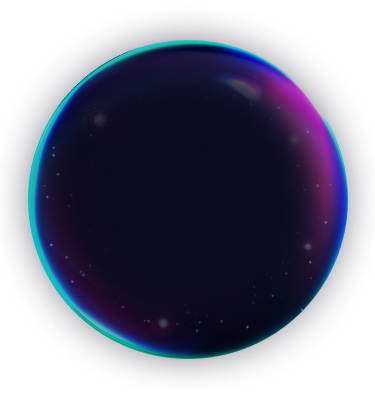
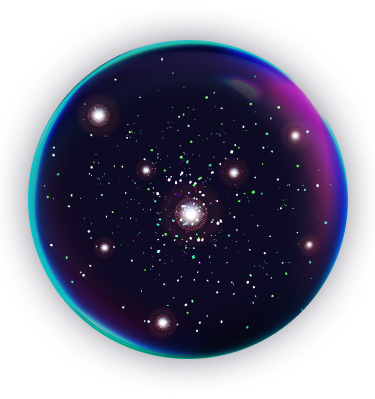
work version

diff --git a/lib/screen/magic_ball_screen.dart b/lib/screen/magic_ball_screen.dart
@@ -1,4 +1,7 @@
 import 'package:flutter/material.dart';
+import 'package:flutter_bloc/flutter_bloc.dart';
+
+import '../bloc/bloc/magic_ball_bloc.dart';
 
 class MagicBallScreen extends StatelessWidget {
   const MagicBallScreen({Key? key}) : super(key: key);
@@ -7,24 +10,117 @@ class MagicBallScreen extends StatelessWidget {
   Widget build(BuildContext context) {
     return Material(
       type: MaterialType.transparency,
-      child: Column(
-        mainAxisAlignment: MainAxisAlignment.center,
-        children: [
-        IconButton(
-            onPressed: () {},
-            icon: Image.asset(
-              "assets/images/start_ball.png",
-              width: 319,
-              height: 319,
-            )),
-        Image.asset(
-          "assets/images/start_elipse.png",
-          width: 202,
-          height: 30,
-        ),
-        const Text('Нажмите на шар или потрясите телефон',
-            style: TextStyle(fontFamily: 'Grillsans', color: Color(0xff727272), )),
-      ]),
+      child: BlocBuilder<MagicBallBloc, MagicBallState>(
+        builder: (context, state) {
+          if (state is MagicBallInitialState) {
+            return Column(
+              mainAxisAlignment: MainAxisAlignment.center,
+              children: [
+                IconButton(
+                    onPressed: () {
+                      context
+                          .read<MagicBallBloc>()
+                          .add(MagicBallLoadinglEvent());
+                    },
+                    icon: Image.asset(
+                      "assets/images/start_ball.png",
+                      width: 319,
+                      height: 319,
+                    )),
+                Image.asset(
+                  "assets/images/start_elipse.png",
+                  width: 202,
+                  height: 30,
+                ),
+                const Text('Нажмите на шар или потрясите телефон',
+                    style: TextStyle(
+                      fontFamily: 'Grillsans',
+                      color: Color(0xff727272),
+                    )),
+              ],
+            );
+          }
+          if (state is MagicBallAnswerState) {
+            return Column(
+              mainAxisAlignment: MainAxisAlignment.center,
+              children: [
+                Stack(
+                  alignment: AlignmentDirectional.center,
+                  children: [
+                    IconButton(
+                        onPressed: () {
+                          context
+                              .read<MagicBallBloc>()
+                              .add(MagicBallLoadinglEvent());
+                        },
+                        icon: Image.asset(
+                          "assets/images/main_ball.png",
+                          width: 319,
+                          height: 319,
+                        )),
+                    SizedBox(
+                      width: 243,
+                      height: 105,
+                      child: TextButton(
+                        onPressed: () {
+                          context
+                              .read<MagicBallBloc>()
+                              .add(MagicBallLoadinglEvent());
+                        },
+                        child: Text(
+                          textAlign: TextAlign.center,
+                          state.text,
+                          style: const TextStyle(
+                            fontSize: 32,
+                            fontFamily: 'Grillsans',
+                            color: Colors.white,
+                          ),
+                          softWrap: true,
+                          maxLines: 2,
+                          // overflow: TextOverflow.fade,
+                        ),
+                      ),
+                    ),
+                  ],
+                ),
+                Image.asset(
+                  "assets/images/start_elipse.png",
+                  width: 202,
+                  height: 30,
+                ),
+                const Text('Нажмите на шар или потрясите телефон',
+                    style: TextStyle(
+                      fontFamily: 'Grillsans',
+                      color: Color(0xff727272),
+                    )),
+              ],
+            );
+          } else {
+            return Column(
+              mainAxisAlignment: MainAxisAlignment.center,
+              children: [
+                IconButton(
+                    onPressed: () {},
+                    icon: Image.asset(
+                      "assets/images/error_ball.png",
+                      width: 319,
+                      height: 319,
+                    )),
+                Image.asset(
+                  "assets/images/error_elipse.png",
+                  width: 202,
+                  height: 30,
+                ),
+                const Text('Нажмите на шар или потрясите телефон',
+                    style: TextStyle(
+                      fontFamily: 'Grillsans',
+                      color: Color(0xff727272),
+                    )),
+              ],
+            );
+          }
+        },
+      ),
     );
   }
 }

diff --git a/lib/main.dart b/lib/main.dart
@@ -1,7 +1,7 @@
 import 'package:flutter/material.dart';
 import 'package:surf_practice_magic_ball/bloc/bloc/magic_ball_bloc.dart';
 import 'package:surf_practice_magic_ball/screen/magic_ball_screen.dart';
-import 'package:provider/provider.dart';
+// ignore: depend_on_referenced_packages
 import 'package:flutter_bloc/flutter_bloc.dart';
 
 void main() async {
@@ -17,19 +17,18 @@ class MyApp extends StatelessWidget {
 
   @override
   Widget build(BuildContext context) {
-    MagicBallBloc magicBallBloc = MagicBallBloc();
     return MaterialApp(
-        theme: ThemeData(
-          colorScheme: ColorScheme.fromSeed(seedColor: Colors.deepPurple),
-          useMaterial3: true,
-        ),
-        home: 
-        // BlocProvider(
-        //   create: (context) => MagicBallBloc(),
-        //   child: MagicBallScreen(),
-        // )
+      theme: ThemeData(
+        colorScheme: ColorScheme.fromSeed(seedColor: Colors.deepPurple),
+        useMaterial3: true,
+      ),
+      home: BlocProvider(
+        create: (context) => MagicBallBloc(),
+        child: const MagicBallScreen(),
+      ),
+    );
 
-        const MagicBallScreen(),
-        );
+    // const MagicBallScreen(),
+    // );
   }
 }

diff --git a/lib/bloc/bloc/magic_ball_bloc.dart b/lib/bloc/bloc/magic_ball_bloc.dart
@@ -1,13 +1,24 @@
+// ignore: depend_on_referenced_packages
 import 'package:bloc/bloc.dart';
-import 'package:meta/meta.dart';
+import 'package:dio/dio.dart';
+import 'package:flutter/material.dart';
 
 part 'magic_ball_event.dart';
 part 'magic_ball_state.dart';
 
 class MagicBallBloc extends Bloc<MagicBallEvent, MagicBallState> {
   MagicBallBloc() : super(MagicBallInitialState()) {
-    on<MagicBallEvent>((event, emit) {
-      // TODO: implement event handler
-    });
+    on<MagicBallLoadinglEvent>(_doLoad);
+    on<MagicBallErrorEvent>(_trowError);
+  }
+
+  _doLoad(MagicBallLoadinglEvent event, Emitter emit) async {
+    final dio = Dio();
+    final response = await dio.get('https://www.eightballapi.com/api');
+    emit(MagicBallAnswerState(response.data['reading']));
+
+  }
+  _trowError(MagicBallErrorEvent event, Emitter emit) {
+
   }
 }

diff --git a/lib/bloc/bloc/magic_ball_state.dart b/lib/bloc/bloc/magic_ball_state.dart
@@ -4,3 +4,11 @@ part of 'magic_ball_bloc.dart';
 abstract class MagicBallState {}
 
 class MagicBallInitialState extends MagicBallState {}
+
+// ignore: must_be_immutable
+class MagicBallAnswerState extends MagicBallState {
+  String text;
+  MagicBallAnswerState(this.text);
+}
+
+class MagicBallErrorState extends MagicBallState {}
